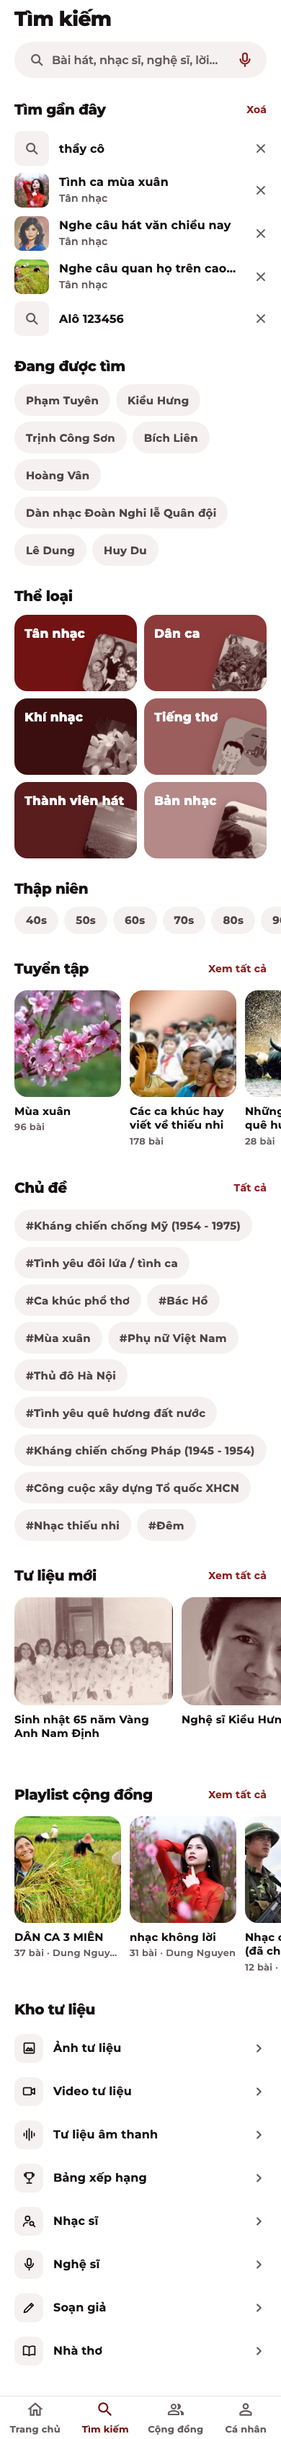
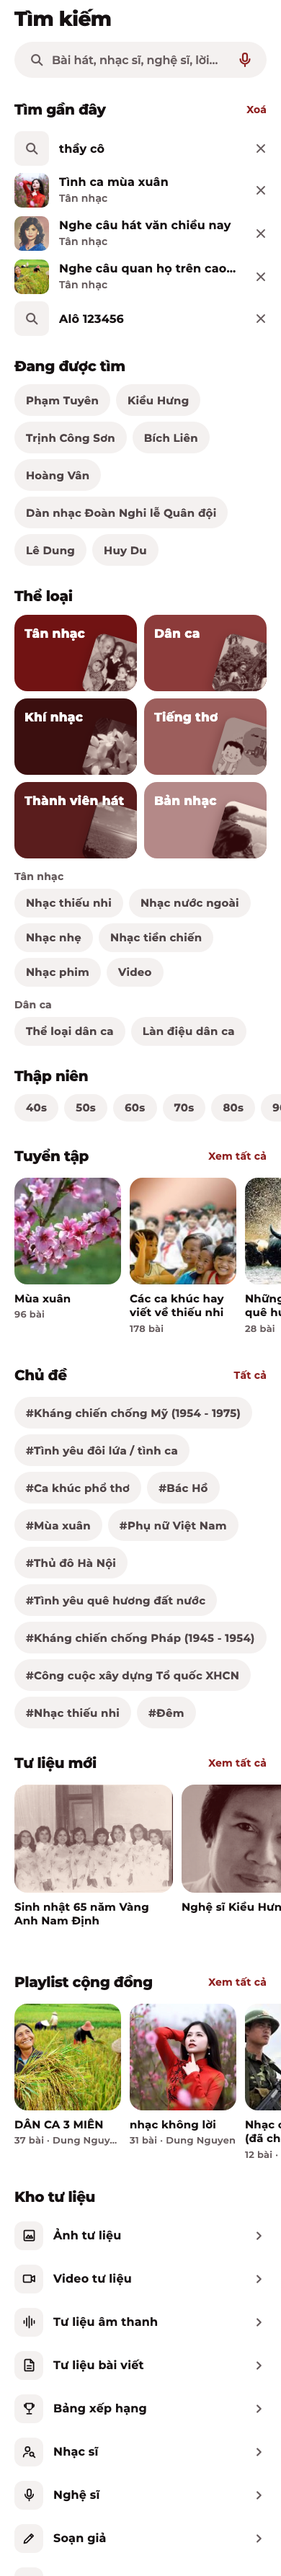
feat(app): Tìm kiếm thêm nhóm Tân nhạc/Dân ca + màn Video; Playlist khác "N bài · chủ"
- Dưới các ô Thể loại: Tân nhạc (Nhạc thiếu nhi, nước ngoài, nhạc nhẹ,
  tiền chiến, nhạc phim → trang tag; Video) và Dân ca (Thể loại dân ca,
  Làn điệu dân ca), như trang Thư viện trên web.
- /bai-hat/video: mọi bài có video (dùng lại màn Thập niên).
- Playlist khác: "N bài · tên chủ" như Playlist cộng đồng.

diff --git a/design/canvas/project/Playlist_CuaToi.dc.html b/design/canvas/project/Playlist_CuaToi.dc.html
@@ -29,9 +29,9 @@ a{color:#8E1F1F;text-decoration:none}a:hover{color:#711313}
 <div style="display: flex; align-items: center; min-height: 68px; padding: 8px 0; box-sizing: border-box; border-bottom: 1px solid #F3EEEE"><span style="width: 28px; flex-shrink: 0; font-size: 15px; font-weight: 700; color: #665C5E">1</span><a href="BaiHat.dc.html" style="flex: 1; min-width: 0; display: flex; align-items: center; color: #161112"><img src="/_blob/15d021a625e44f0e9ff37aae395a5ec2" alt="" style="width: 52px; height: 52px; border-radius: 12px; object-fit: cover; flex-shrink: 0; display: block"><span style="flex: 1; min-width: 0; margin-left: 14px; display: flex; flex-direction: column; gap: 6px"><span style="font-size: 16px; font-weight: 700; line-height: 1.25; white-space: nowrap; overflow: hidden; text-overflow: ellipsis">Nơi đảo xa</span><span style="font-size: 13px; font-weight: 600; line-height: 1.25; color: #665C5E; white-space: nowrap; overflow: hidden; text-overflow: ellipsis">Tiến Thành</span></span></a><button aria-label="Tuỳ chọn cho Nơi đảo xa" style="width: 40px; height: 40px; flex-shrink: 0; border: none; background: transparent; padding: 0; display: flex; align-items: center; justify-content: center; color: #665C5E"><svg width="22" height="22" viewBox="0 0 24 24" aria-hidden="true"><path fill="currentColor" d="M12 8c1.1 0 2-.9 2-2s-.9-2-2-2-2 .9-2 2 .9 2 2 2zm0 2c-1.1 0-2 .9-2 2s.9 2 2 2 2-.9 2-2-.9-2-2-2zm0 6c-1.1 0-2 .9-2 2s.9 2 2 2 2-.9 2-2-.9-2-2-2z"></path></svg></button></div><div style="display: flex; align-items: center; min-height: 68px; padding: 8px 0; box-sizing: border-box; border-bottom: 1px solid #F3EEEE"><span style="width: 28px; flex-shrink: 0; font-size: 15px; font-weight: 700; color: #665C5E">2</span><a href="BaiHat.dc.html" style="flex: 1; min-width: 0; display: flex; align-items: center; color: #161112"><img src="/_blob/1c5dda211792aea9143139f889d99c6c" alt="" style="width: 52px; height: 52px; border-radius: 12px; object-fit: cover; flex-shrink: 0; display: block"><span style="flex: 1; min-width: 0; margin-left: 14px; display: flex; flex-direction: column; gap: 6px"><span style="font-size: 16px; font-weight: 700; line-height: 1.25; white-space: nowrap; overflow: hidden; text-overflow: ellipsis">Nhớ về Hà Nội</span><span style="font-size: 13px; font-weight: 600; line-height: 1.25; color: #665C5E; white-space: nowrap; overflow: hidden; text-overflow: ellipsis">Hồng Nhung</span></span></a><button aria-label="Tuỳ chọn cho Nhớ về Hà Nội" style="width: 40px; height: 40px; flex-shrink: 0; border: none; background: transparent; padding: 0; display: flex; align-items: center; justify-content: center; color: #665C5E"><svg width="22" height="22" viewBox="0 0 24 24" aria-hidden="true"><path fill="currentColor" d="M12 8c1.1 0 2-.9 2-2s-.9-2-2-2-2 .9-2 2 .9 2 2 2zm0 2c-1.1 0-2 .9-2 2s.9 2 2 2 2-.9 2-2-.9-2-2-2zm0 6c-1.1 0-2 .9-2 2s.9 2 2 2 2-.9 2-2-.9-2-2-2z"></path></svg></button></div><div style="display: flex; align-items: center; min-height: 68px; padding: 8px 0; box-sizing: border-box; border-bottom: 1px solid #F3EEEE"><span style="width: 28px; flex-shrink: 0; font-size: 15px; font-weight: 700; color: #665C5E">3</span><a href="BaiHat.dc.html" style="flex: 1; min-width: 0; display: flex; align-items: center; color: #161112"><img src="/_blob/f222b661580510c678d788ff90f68dbb" alt="" style="width: 52px; height: 52px; border-radius: 12px; object-fit: cover; flex-shrink: 0; display: block"><span style="flex: 1; min-width: 0; margin-left: 14px; display: flex; flex-direction: column; gap: 6px"><span style="font-size: 16px; font-weight: 700; line-height: 1.25; white-space: nowrap; overflow: hidden; text-overflow: ellipsis">Đường tôi đi dài theo đất nước</span><span style="font-size: 13px; font-weight: 600; line-height: 1.25; color: #665C5E; white-space: nowrap; overflow: hidden; text-overflow: ellipsis">Bích Liên</span></span></a><button aria-label="Tuỳ chọn cho Đường tôi đi dài theo đất nước" style="width: 40px; height: 40px; flex-shrink: 0; border: none; background: transparent; padding: 0; display: flex; align-items: center; justify-content: center; color: #665C5E"><svg width="22" height="22" viewBox="0 0 24 24" aria-hidden="true"><path fill="currentColor" d="M12 8c1.1 0 2-.9 2-2s-.9-2-2-2-2 .9-2 2 .9 2 2 2zm0 2c-1.1 0-2 .9-2 2s.9 2 2 2 2-.9 2-2-.9-2-2-2zm0 6c-1.1 0-2 .9-2 2s.9 2 2 2 2-.9 2-2-.9-2-2-2z"></path></svg></button></div><div style="display: flex; align-items: center; min-height: 68px; padding: 8px 0; box-sizing: border-box; border-bottom: 1px solid #F3EEEE"><span style="width: 28px; flex-shrink: 0; font-size: 15px; font-weight: 700; color: #665C5E">4</span><a href="BaiHat.dc.html" style="flex: 1; min-width: 0; display: flex; align-items: center; color: #161112"><img src="/_blob/0a4457564aa3b6ba9b1f0d4937deee1c" alt="" style="width: 52px; height: 52px; border-radius: 12px; object-fit: cover; flex-shrink: 0; display: block"><span style="flex: 1; min-width: 0; margin-left: 14px; display: flex; flex-direction: column; gap: 6px"><span style="font-size: 16px; font-weight: 700; line-height: 1.25; white-space: nowrap; overflow: hidden; text-overflow: ellipsis">Gửi về em, cô thanh niên xung phong</span><span style="font-size: 13px; font-weight: 600; line-height: 1.25; color: #665C5E; white-space: nowrap; overflow: hidden; text-overflow: ellipsis">Ngọc Quy</span></span></a><button aria-label="Tuỳ chọn cho Gửi về em, cô thanh niên xung phong" style="width: 40px; height: 40px; flex-shrink: 0; border: none; background: transparent; padding: 0; display: flex; align-items: center; justify-content: center; color: #665C5E"><svg width="22" height="22" viewBox="0 0 24 24" aria-hidden="true"><path fill="currentColor" d="M12 8c1.1 0 2-.9 2-2s-.9-2-2-2-2 .9-2 2 .9 2 2 2zm0 2c-1.1 0-2 .9-2 2s.9 2 2 2 2-.9 2-2-.9-2-2-2zm0 6c-1.1 0-2 .9-2 2s.9 2 2 2 2-.9 2-2-.9-2-2-2z"></path></svg></button></div><div style="display: flex; align-items: center; min-height: 68px; padding: 8px 0; box-sizing: border-box; border-bottom: 1px solid #F3EEEE"><span style="width: 28px; flex-shrink: 0; font-size: 15px; font-weight: 700; color: #665C5E">5</span><a href="BaiHat.dc.html" style="flex: 1; min-width: 0; display: flex; align-items: center; color: #161112"><img src="/_blob/eff02e07bb09eaa1645c9c7b7b91eb61" alt="" style="width: 52px; height: 52px; border-radius: 12px; object-fit: cover; flex-shrink: 0; display: block"><span style="flex: 1; min-width: 0; margin-left: 14px; display: flex; flex-direction: column; gap: 6px"><span style="font-size: 16px; font-weight: 700; line-height: 1.25; white-space: nowrap; overflow: hidden; text-overflow: ellipsis">Rừng xanh vang tiếng ta lư</span><span style="font-size: 13px; font-weight: 600; line-height: 1.25; color: #665C5E; white-space: nowrap; overflow: hidden; text-overflow: ellipsis">Thuý Hà</span></span></a><button aria-label="Tuỳ chọn cho Rừng xanh vang tiếng ta lư" style="width: 40px; height: 40px; flex-shrink: 0; border: none; background: transparent; padding: 0; display: flex; align-items: center; justify-content: center; color: #665C5E"><svg width="22" height="22" viewBox="0 0 24 24" aria-hidden="true"><path fill="currentColor" d="M12 8c1.1 0 2-.9 2-2s-.9-2-2-2-2 .9-2 2 .9 2 2 2zm0 2c-1.1 0-2 .9-2 2s.9 2 2 2 2-.9 2-2-.9-2-2-2zm0 6c-1.1 0-2 .9-2 2s.9 2 2 2 2-.9 2-2-.9-2-2-2z"></path></svg></button></div><div style="display: flex; align-items: center; min-height: 68px; padding: 8px 0; box-sizing: border-box; border-bottom: 1px solid #F3EEEE"><span style="width: 28px; flex-shrink: 0; font-size: 15px; font-weight: 700; color: #665C5E">6</span><a href="BaiHat.dc.html" style="flex: 1; min-width: 0; display: flex; align-items: center; color: #161112"><img src="/_blob/d89999802612c9b1d0f6b1f73f6a34d9" alt="" style="width: 52px; height: 52px; border-radius: 12px; object-fit: cover; flex-shrink: 0; display: block"><span style="flex: 1; min-width: 0; margin-left: 14px; display: flex; flex-direction: column; gap: 6px"><span style="font-size: 16px; font-weight: 700; line-height: 1.25; white-space: nowrap; overflow: hidden; text-overflow: ellipsis">Lời chào của em</span><span style="font-size: 13px; font-weight: 600; line-height: 1.25; color: #665C5E; white-space: nowrap; overflow: hidden; text-overflow: ellipsis">Hồng Nhung</span></span></a><button aria-label="Tuỳ chọn cho Lời chào của em" style="width: 40px; height: 40px; flex-shrink: 0; border: none; background: transparent; padding: 0; display: flex; align-items: center; justify-content: center; color: #665C5E"><svg width="22" height="22" viewBox="0 0 24 24" aria-hidden="true"><path fill="currentColor" d="M12 8c1.1 0 2-.9 2-2s-.9-2-2-2-2 .9-2 2 .9 2 2 2zm0 2c-1.1 0-2 .9-2 2s.9 2 2 2 2-.9 2-2-.9-2-2-2zm0 6c-1.1 0-2 .9-2 2s.9 2 2 2 2-.9 2-2-.9-2-2-2z"></path></svg></button></div><div style="display: flex; align-items: center; min-height: 68px; padding: 8px 0; box-sizing: border-box; border-bottom: 1px solid #F3EEEE"><span style="width: 28px; flex-shrink: 0; font-size: 15px; font-weight: 700; color: #665C5E">7</span><a href="BaiHat.dc.html" style="flex: 1; min-width: 0; display: flex; align-items: center; color: #161112"><img src="/_blob/0904ef3447178bd511c2ef56eb999eb5" alt="" style="width: 52px; height: 52px; border-radius: 12px; object-fit: cover; flex-shrink: 0; display: block"><span style="flex: 1; min-width: 0; margin-left: 14px; display: flex; flex-direction: column; gap: 6px"><span style="font-size: 16px; font-weight: 700; line-height: 1.25; white-space: nowrap; overflow: hidden; text-overflow: ellipsis">Người chiến sĩ ấy</span><span style="font-size: 13px; font-weight: 600; line-height: 1.25; color: #665C5E; white-space: nowrap; overflow: hidden; text-overflow: ellipsis">Trung Kiên</span></span></a><button aria-label="Tuỳ chọn cho Người chiến sĩ ấy" style="width: 40px; height: 40px; flex-shrink: 0; border: none; background: transparent; padding: 0; display: flex; align-items: center; justify-content: center; color: #665C5E"><svg width="22" height="22" viewBox="0 0 24 24" aria-hidden="true"><path fill="currentColor" d="M12 8c1.1 0 2-.9 2-2s-.9-2-2-2-2 .9-2 2 .9 2 2 2zm0 2c-1.1 0-2 .9-2 2s.9 2 2 2 2-.9 2-2-.9-2-2-2zm0 6c-1.1 0-2 .9-2 2s.9 2 2 2 2-.9 2-2-.9-2-2-2z"></path></svg></button></div>
 <!-- Danh sách dài: hiện 20 bài đầu (canvas vẽ gọn 7); còn nữa thì nút "Xem thêm N bài" mở thêm 20 bài mỗi lần. Phát tất cả / Ngẫu nhiên vẫn phát cả playlist -->
 <button style="margin-top: 12px; height: 48px; border-radius: 24px; border: none; background: #F4F1F0; font-family: Montserrat, sans-serif; font-size: 15px; font-weight: 800; color: #161112; display: flex; align-items: center; justify-content: center; gap: 6px">Xem thêm 6 bài<svg width="20" height="20" viewBox="0 0 24 24" aria-hidden="true"><path fill="currentColor" d="M7.41 8.59L12 13.17l4.59-4.58L18 10l-6 6-6-6z"></path></svg></button>
-<!-- Playlist khác: dòng dưới tên playlist = tên chủ playlist · số bài (tên dài thì cắt, số bài luôn hiện) -->
+<!-- Playlist khác: dòng dưới tên playlist = số bài · tên chủ playlist, giống Playlist cộng đồng (tên dài thì cắt) -->
 <div style="margin-top: 24px; display: flex; align-items: center; gap: 6px"><svg width="18" height="18" viewBox="0 0 24 24" aria-hidden="true"><path fill="#4F4547" d="M15 6H3v2h12V6zm0 4H3v2h12v-2zM3 16h8v-2H3v2zM17 6v8.18c-.31-.11-.65-.18-1-.18-1.66 0-3 1.34-3 3s1.34 3 3 3 3-1.34 3-3V8h3V6h-5z"></path></svg><h2 style="margin: 0; font-size: 17px; font-weight: 700">Playlist khác</h2></div>
-<div style="margin-top: 10px; display: flex; gap: 12px; overflow: hidden"><a href="Playlist_CuaToi.dc.html" style="width: 130px; flex-shrink: 0; display: flex; flex-direction: column; color: #161112"><img src="/_blob/bb3b0f0da1d0e24961fccd46653d78fd" alt="" style="width: 130px; height: 130px; border-radius: 10px; object-fit: cover; flex-shrink: 0; display: block"><span style="margin-top: 6px; font-size: 14px; font-weight: 600; line-height: 1.3; display: -webkit-box; -webkit-line-clamp: 2; -webkit-box-orient: vertical; overflow: hidden">Tiếng hát từ thành phố mang tên Người</span><span style="margin-top: 4px; display: flex; min-width: 0; font-size: 13px; font-weight: 600; color: #665C5E; white-space: nowrap"><span style="overflow: hidden; text-overflow: ellipsis">Nguyễn Huy</span><span style="flex-shrink: 0">&nbsp;· 1 bài</span></span></a><a href="Playlist_CuaToi.dc.html" style="width: 130px; flex-shrink: 0; display: flex; flex-direction: column; color: #161112"><img src="/_blob/f222b661580510c678d788ff90f68dbb" alt="" style="width: 130px; height: 130px; border-radius: 10px; object-fit: cover; flex-shrink: 0; display: block"><span style="margin-top: 6px; font-size: 14px; font-weight: 600; line-height: 1.3; display: -webkit-box; -webkit-line-clamp: 2; -webkit-box-orient: vertical; overflow: hidden">Ta đang sống những ngày đẹp nhất</span><span style="margin-top: 4px; display: flex; min-width: 0; font-size: 13px; font-weight: 600; color: #665C5E; white-space: nowrap"><span style="overflow: hidden; text-overflow: ellipsis">tuanhuy</span><span style="flex-shrink: 0">&nbsp;· 1 bài</span></span></a><a href="Playlist_CuaToi.dc.html" style="width: 130px; flex-shrink: 0; display: flex; flex-direction: column; color: #161112"><img src="/_blob/0904ef3447178bd511c2ef56eb999eb5" alt="" style="width: 130px; height: 130px; border-radius: 10px; object-fit: cover; flex-shrink: 0; display: block"><span style="margin-top: 6px; font-size: 14px; font-weight: 600; line-height: 1.3; display: -webkit-box; -webkit-line-clamp: 2; -webkit-box-orient: vertical; overflow: hidden">Hành quân về thành phố</span><span style="margin-top: 4px; display: flex; min-width: 0; font-size: 13px; font-weight: 600; color: #665C5E; white-space: nowrap"><span style="overflow: hidden; text-overflow: ellipsis">Lão Nông</span><span style="flex-shrink: 0">&nbsp;· 1 bài</span></span></a></div>
+<div style="margin-top: 10px; display: flex; gap: 12px; overflow: hidden"><a href="Playlist_CuaToi.dc.html" style="width: 130px; flex-shrink: 0; display: flex; flex-direction: column; color: #161112"><img src="/_blob/bb3b0f0da1d0e24961fccd46653d78fd" alt="" style="width: 130px; height: 130px; border-radius: 10px; object-fit: cover; flex-shrink: 0; display: block"><span style="margin-top: 6px; font-size: 14px; font-weight: 600; line-height: 1.3; display: -webkit-box; -webkit-line-clamp: 2; -webkit-box-orient: vertical; overflow: hidden">Tiếng hát từ thành phố mang tên Người</span><span style="margin-top: 4px; display: flex; min-width: 0; font-size: 13px; font-weight: 600; color: #665C5E; white-space: nowrap"><span style="flex-shrink: 0">1 bài&nbsp;·&nbsp;</span><span style="overflow: hidden; text-overflow: ellipsis">Nguyễn Huy</span></span></a><a href="Playlist_CuaToi.dc.html" style="width: 130px; flex-shrink: 0; display: flex; flex-direction: column; color: #161112"><img src="/_blob/f222b661580510c678d788ff90f68dbb" alt="" style="width: 130px; height: 130px; border-radius: 10px; object-fit: cover; flex-shrink: 0; display: block"><span style="margin-top: 6px; font-size: 14px; font-weight: 600; line-height: 1.3; display: -webkit-box; -webkit-line-clamp: 2; -webkit-box-orient: vertical; overflow: hidden">Ta đang sống những ngày đẹp nhất</span><span style="margin-top: 4px; display: flex; min-width: 0; font-size: 13px; font-weight: 600; color: #665C5E; white-space: nowrap"><span style="flex-shrink: 0">1 bài&nbsp;·&nbsp;</span><span style="overflow: hidden; text-overflow: ellipsis">tuanhuy</span></span></a><a href="Playlist_CuaToi.dc.html" style="width: 130px; flex-shrink: 0; display: flex; flex-direction: column; color: #161112"><img src="/_blob/0904ef3447178bd511c2ef56eb999eb5" alt="" style="width: 130px; height: 130px; border-radius: 10px; object-fit: cover; flex-shrink: 0; display: block"><span style="margin-top: 6px; font-size: 14px; font-weight: 600; line-height: 1.3; display: -webkit-box; -webkit-line-clamp: 2; -webkit-box-orient: vertical; overflow: hidden">Hành quân về thành phố</span><span style="margin-top: 4px; display: flex; min-width: 0; font-size: 13px; font-weight: 600; color: #665C5E; white-space: nowrap"><span style="flex-shrink: 0">1 bài&nbsp;·&nbsp;</span><span style="overflow: hidden; text-overflow: ellipsis">Lão Nông</span></span></a></div>
 </div>
 <div style="flex: 1"></div>
 <dc-import name="MiniPlayer" hint-size="390px,78px"></dc-import>

diff --git a/design/canvas/project/TimKiem.dc.html b/design/canvas/project/TimKiem.dc.html
@@ -15,7 +15,7 @@ a{color:#8E1F1F;text-decoration:none}a:hover{color:#711313}
 input::placeholder{color:#665C5E}
 </style>
 </helmet>
-<div style="width: 390px; height: 3384px; background: #FFFFFF; font-family: Montserrat, sans-serif; color: #161112; letter-spacing: 0.2px; display: flex; flex-direction: column; overflow: hidden">
+<div style="width: 390px; height: 3574px; background: #FFFFFF; font-family: Montserrat, sans-serif; color: #161112; letter-spacing: 0.2px; display: flex; flex-direction: column; overflow: hidden">
 <svg width="0" height="0" aria-hidden="true" style="position: absolute"><filter id="brandTint" color-interpolation-filters="sRGB"><feColorMatrix type="matrix" values="0.1667 0.5609 0.0566 0 0.1804  0.1868 0.6283 0.0634 0 0.0314  0.1767 0.5946 0.0600 0 0.0392  0 0 0 1 0"></feColorMatrix></filter></svg>
 
 <!-- Tiêu đề + ô tìm (ghim trên cùng) -->
@@ -44,6 +44,10 @@ input::placeholder{color:#665C5E}
 <a href="DanhSach.dc.html" style="position: relative; display: block; height: 106px; border-radius: 18px; overflow: hidden; background: #5A1D1D; color: #FFFFFF"><img src="/_blob/15d021a625e44f0e9ff37aae395a5ec2" alt="" style="position: absolute; right: -16px; bottom: -12px; width: 84px; height: 84px; border-radius: 12px; object-fit: cover; transform: rotate(17deg); box-shadow: 0 6px 16px rgba(0,0,0,0.35); filter: url(#brandTint)"><span style="position: relative; display: block; padding: 14px; font-size: 17px; font-weight: 800; line-height: 24px; color: #FFFFFF">Thành viên hát</span></a>
 <a href="DanhSach.dc.html" style="position: relative; display: block; height: 106px; border-radius: 18px; overflow: hidden; background: #B48988; color: #FFFFFF"><img src="/_blob/4389c9865793c9555b85222a96bc6261" alt="" style="position: absolute; right: -16px; bottom: -12px; width: 84px; height: 84px; border-radius: 12px; object-fit: cover; transform: rotate(17deg); box-shadow: 0 6px 16px rgba(0,0,0,0.35); filter: url(#brandTint)"><span style="position: relative; display: block; padding: 14px; font-size: 17px; font-weight: 800; line-height: 24px; color: #FFFFFF">Bản nhạc</span></a>
 </div>
+
+<!-- Dưới các ô thể loại: nhóm nhỏ như trang Thư viện trên web. Tân nhạc: các tag nhac-thieu-nhi, nhac-nuoc-ngoai, nhac-nhe, nhac-tien-chien, nhac-phim + Video (bài có video). Dân ca: Thể loại dân ca (/the-loai-dan-ca), Làn điệu dân ca (/lan-dieu) -->
+<p style="margin: 16px 20px 8px 20px; font-size: 14px; font-weight: 700; color: #665C5E">Tân nhạc</p><div style="display: flex; flex-wrap: wrap; gap: 8px; padding: 0 20px"><a href="DanhSach.dc.html" style="min-height: 40px; padding: 0 16px; border-radius: 22px; background: #F4F1F0; display: flex; align-items: center; font-size: 15px; font-weight: 700; color: #4F4547; white-space: nowrap; letter-spacing: 0.25px">Nhạc thiếu nhi</a><a href="DanhSach.dc.html" style="min-height: 40px; padding: 0 16px; border-radius: 22px; background: #F4F1F0; display: flex; align-items: center; font-size: 15px; font-weight: 700; color: #4F4547; white-space: nowrap; letter-spacing: 0.25px">Nhạc nước ngoài</a><a href="DanhSach.dc.html" style="min-height: 40px; padding: 0 16px; border-radius: 22px; background: #F4F1F0; display: flex; align-items: center; font-size: 15px; font-weight: 700; color: #4F4547; white-space: nowrap; letter-spacing: 0.25px">Nhạc nhẹ</a><a href="DanhSach.dc.html" style="min-height: 40px; padding: 0 16px; border-radius: 22px; background: #F4F1F0; display: flex; align-items: center; font-size: 15px; font-weight: 700; color: #4F4547; white-space: nowrap; letter-spacing: 0.25px">Nhạc tiền chiến</a><a href="DanhSach.dc.html" style="min-height: 40px; padding: 0 16px; border-radius: 22px; background: #F4F1F0; display: flex; align-items: center; font-size: 15px; font-weight: 700; color: #4F4547; white-space: nowrap; letter-spacing: 0.25px">Nhạc phim</a><a href="DanhSach.dc.html" style="min-height: 40px; padding: 0 16px; border-radius: 22px; background: #F4F1F0; display: flex; align-items: center; font-size: 15px; font-weight: 700; color: #4F4547; white-space: nowrap; letter-spacing: 0.25px">Video</a></div>
+<p style="margin: 16px 20px 8px 20px; font-size: 14px; font-weight: 700; color: #665C5E">Dân ca</p><div style="display: flex; flex-wrap: wrap; gap: 8px; padding: 0 20px"><a href="DanhSach.dc.html" style="min-height: 40px; padding: 0 16px; border-radius: 22px; background: #F4F1F0; display: flex; align-items: center; font-size: 15px; font-weight: 700; color: #4F4547; white-space: nowrap; letter-spacing: 0.25px">Thể loại dân ca</a><a href="DanhSach.dc.html" style="min-height: 40px; padding: 0 16px; border-radius: 22px; background: #F4F1F0; display: flex; align-items: center; font-size: 15px; font-weight: 700; color: #4F4547; white-space: nowrap; letter-spacing: 0.25px">Làn điệu dân ca</a></div>
 
 <!-- Thập niên -->
 <h2 style="margin: 0; padding: 28px 12px 11px 20px; font-size: 20px; font-weight: 800; line-height: 28px; letter-spacing: -0.4px">Thập niên</h2>
@@ -94,7 +98,7 @@ input::placeholder{color:#665C5E}
 <dc-import name="TabBar" active="search" hint-size="390px,61px"></dc-import>
 </div>
 </x-dc>
-<script type="text/x-dc" data-dc-script data-props='{"$preview":{"width":390,"height":3384}}'>
+<script type="text/x-dc" data-dc-script data-props='{"$preview":{"width":390,"height":3574}}'>
 class Component extends DCLogic {
 renderVals() {
 return {};

diff --git a/lib/screens/decade_songs_screen.dart b/lib/screens/decade_songs_screen.dart
@@ -8,9 +8,12 @@ import '../services/player.dart';
 import '../widgets/song_row.dart';
 import '../widgets/mini_player.dart';
 
+/// Songs of one decade (`/bai-hat/thap-nien/:decade`), or with [video]
+/// every song that has a video (`/bai-hat/video`, as on the web).
 class DecadeSongsScreen extends StatefulWidget {
   final int decade;
-  const DecadeSongsScreen({super.key, required this.decade});
+  final bool video;
+  const DecadeSongsScreen({super.key, this.decade = 0, this.video = false});
 
   @override
   State<DecadeSongsScreen> createState() => _DecadeSongsScreenState();
@@ -66,10 +69,12 @@ class _DecadeSongsScreenState extends State<DecadeSongsScreen> with PagedLoader 
         final data = await ApiClient.query(q, {
           'page': page,
           'q': _q,
-          'where': {'AND': [
-            {'column': 'year', 'operator': 'GTE', 'value': '$d'},
-            {'column': 'year', 'operator': 'LT', 'value': '${d + 10}'},
-          ]},
+          'where': widget.video
+              ? {'AND': [{'column': 'play_type', 'value': 'video'}]}
+              : {'AND': [
+                  {'column': 'year', 'operator': 'GTE', 'value': '$d'},
+                  {'column': 'year', 'operator': 'LT', 'value': '${d + 10}'},
+                ]},
         });
         return PageResult.fromPaginator(data['songs'], page);
       }, sort: sort, scrollToTop: _scrollCtl, append: append);
@@ -113,7 +118,7 @@ class _DecadeSongsScreenState extends State<DecadeSongsScreen> with PagedLoader 
               SliverAppBar(
                 pinned: true,
                 backgroundColor: AppColors.bg,
-                title: Text('Thập niên'),
+                title: Text(widget.video ? 'Video' : 'Thập niên'),
                 centerTitle: true,
                 leading: IconButton(tooltip: 'Quay lại', icon: Icon(Icons.arrow_back_ios_new_rounded, size: 20, color: AppColors.text), onPressed: () => goBack(context)),
               ),
@@ -133,16 +138,16 @@ class _DecadeSongsScreenState extends State<DecadeSongsScreen> with PagedLoader 
                           width: 56, height: 56,
                           decoration: BoxDecoration(color: Colors.white.withValues(alpha: 0.18), borderRadius: BorderRadius.circular(14)),
                           alignment: Alignment.center,
-                          child: const Icon(Icons.history_toggle_off, color: Colors.white, size: 28),
+                          child: Icon(widget.video ? Icons.smart_display_outlined : Icons.history_toggle_off, color: Colors.white, size: 28),
                         ),
                         const SizedBox(width: 14),
                         Expanded(
                           child: Column(
                             crossAxisAlignment: CrossAxisAlignment.start,
                             children: [
-                              Text('Thập niên ${widget.decade}', style: display(const TextStyle(fontSize: 22, fontWeight: FontWeight.w800, color: Colors.white))),
+                              Text(widget.video ? 'Video' : 'Thập niên ${widget.decade}', style: display(const TextStyle(fontSize: 22, fontWeight: FontWeight.w800, color: Colors.white))),
                               const SizedBox(height: 4),
-                              Text(_list.allTotal > 0 ? '${_formatInt(_list.allTotal)} bài hát' : (!_list.loaded && !_list.failed ? 'Đang tải...' : (_list.failed ? '' : 'Chưa có')), style: body(const TextStyle(fontSize: 15, color: Colors.white70))),
+                              Text(_list.allTotal > 0 ? '${_formatInt(_list.allTotal)} ${widget.video ? 'video' : 'bài hát'}' : (!_list.loaded && !_list.failed ? 'Đang tải...' : (_list.failed ? '' : 'Chưa có')), style: body(const TextStyle(fontSize: 15, color: Colors.white70))),
                             ],
                           ),
                         ),
@@ -157,7 +162,7 @@ class _DecadeSongsScreenState extends State<DecadeSongsScreen> with PagedLoader 
                       Expanded(child: PillButton(onTap: () => _playAll(shuffle: true), icon: Icons.shuffle, label: 'Ngẫu nhiên', primary: false)),
                     ]),
                   const SizedBox(height: 14),
-                  ListSearchField(hint: 'Tìm trong ${_list.allTotal > 0 ? '${_list.allTotal} bài ' : ''}thập niên ${widget.decade}', onChanged: _search),
+                  ListSearchField(hint: widget.video ? 'Tìm trong ${_list.allTotal > 0 ? '${_list.allTotal} ' : ''}video' : 'Tìm trong ${_list.allTotal > 0 ? '${_list.allTotal} bài ' : ''}thập niên ${widget.decade}', onChanged: _search),
                   ListSearchSummary(query: _q, total: _list.total, loading: _list.loading),
                   const SizedBox(height: 14),
                   SortTabs(labels: _sorts, selected: _list.sort, padding: EdgeInsets.zero, onSelect: (i) => _fetch(1, sort: i)),

diff --git a/lib/screens/search_screen.dart b/lib/screens/search_screen.dart
@@ -1015,6 +1015,18 @@ class _BrowseBlocksState extends State<_BrowseBlocks> {
           ...((t['sample_images'] is List) ? (t['sample_images'] as List).whereType<String>() : const <String>[]),
       ];
 
+  /// "Tân nhạc" / "Dân ca" and their chips, wrapping onto more lines.
+  Widget _group(String label, List<(String, String)> items) => Padding(
+        padding: const EdgeInsets.fromLTRB(20, 16, 20, 0),
+        child: Column(crossAxisAlignment: CrossAxisAlignment.start, children: [
+          Text(label, style: body(TextStyle(fontSize: 14, fontWeight: FontWeight.w700, color: AppColors.textMuted))),
+          const SizedBox(height: 8),
+          Wrap(spacing: 8, runSpacing: 8, children: [
+            for (final (t, route) in items) BrandChip(label: t, onTap: () => context.push(route)),
+          ]),
+        ]),
+      );
+
   @override
   Widget build(BuildContext context) {
     final imgs = _images;
@@ -1062,6 +1074,19 @@ class _BrowseBlocksState extends State<_BrowseBlocks> {
             ],
           ),
         ),
+        // Smaller groups under the kinds, as on the web's Thư viện page.
+        _group('Tân nhạc', const [
+          ('Nhạc thiếu nhi', '/tag/nhac-thieu-nhi'),
+          ('Nhạc nước ngoài', '/tag/nhac-nuoc-ngoai'),
+          ('Nhạc nhẹ', '/tag/nhac-nhe'),
+          ('Nhạc tiền chiến', '/tag/nhac-tien-chien'),
+          ('Nhạc phim', '/tag/nhac-phim'),
+          ('Video', '/bai-hat/video'),
+        ]),
+        _group('Dân ca', const [
+          ('Thể loại dân ca', '/the-loai-dan-ca'),
+          ('Làn điệu dân ca', '/lan-dieu'),
+        ]),
         SectionTitle('Thập niên', action: null),
         SizedBox(
           height: 38,

diff --git a/lib/screens/playlist_detail_screen.dart b/lib/screens/playlist_detail_screen.dart
@@ -591,8 +591,8 @@ class _Clamped extends StatelessWidget {
   }
 }
 
-/// "Nguyễn Huy · 3 bài" under a related playlist: a long name is cut, the
-/// count always shows.
+/// "3 bài · Nguyễn Huy" under a related playlist, as in Playlist cộng đồng:
+/// a long name is cut, the count always shows.
 class _OwnerLine extends StatelessWidget {
   final String? owner;
   final dynamic total;
@@ -606,8 +606,8 @@ class _OwnerLine extends StatelessWidget {
     final count = n > 0 ? '$n bài' : '';
     if (owner == null || owner!.isEmpty) return Text(count, maxLines: 1, style: st);
     return Row(children: [
+      if (count.isNotEmpty) Text('$count · ', maxLines: 1, softWrap: false, style: st),
       Flexible(child: Text(owner!, maxLines: 1, overflow: TextOverflow.ellipsis, style: st)),
-      if (count.isNotEmpty) Text(' · $count', maxLines: 1, softWrap: false, style: st),
     ]);
   }
 }

diff --git a/lib/main.dart b/lib/main.dart
@@ -508,6 +508,7 @@ final _router = GoRouter(
         GoRoute(path: '/tag', builder: (c, s) => const TagListScreen()),
         GoRoute(path: '/tag/:slug', builder: (c, s) => TagDetailScreen(slug: s.pathParameters['slug']!)),
         GoRoute(path: '/bai-gui-cua-toi', builder: (c, s) => const MyUploadsScreen()),
+        GoRoute(path: '/bai-hat/video', builder: (c, s) => const DecadeSongsScreen(video: true)),
         GoRoute(
           path: '/bai-hat/thap-nien/:decade',
           builder: (c, s) => DecadeSongsScreen(decade: int.tryParse(s.pathParameters['decade']!) ?? 1990),
